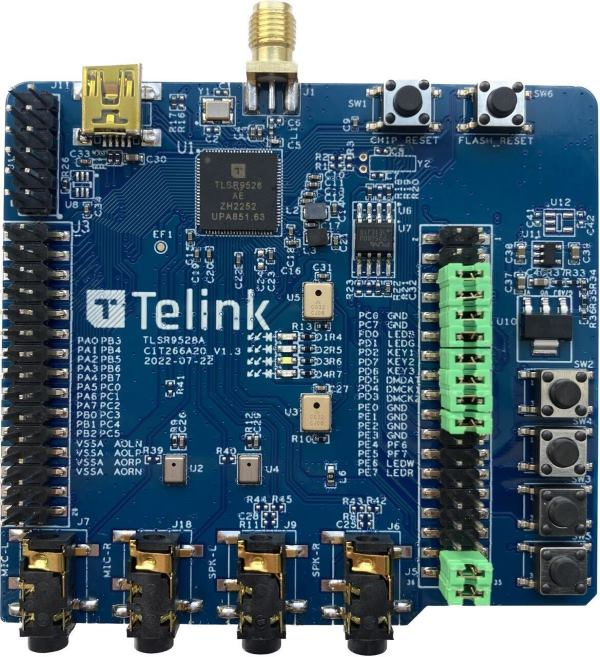
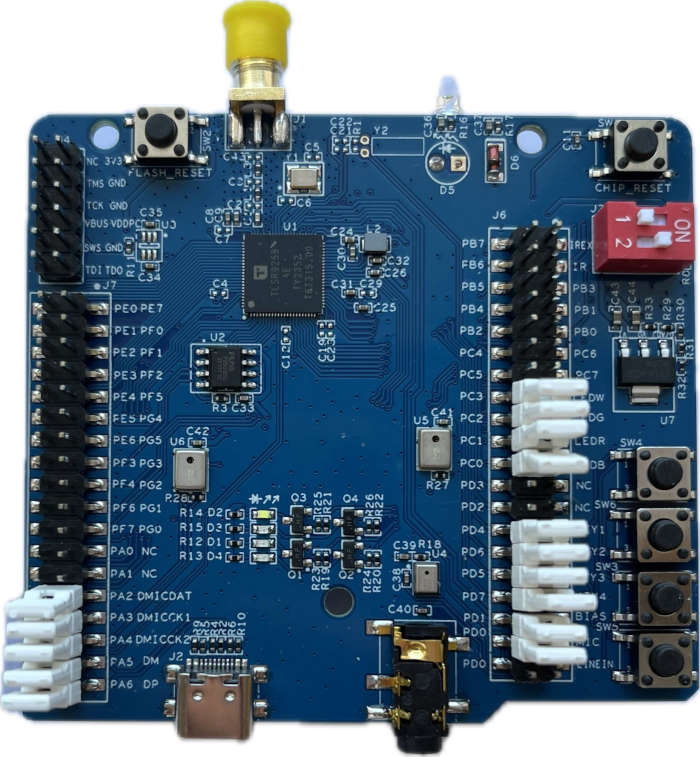
boards: riscv: tlsr9258a: Update b95 board docs
Update board image, block-diagram and board description.

diff --git a/boards/riscv/tlsr9258a/doc/index.rst b/boards/riscv/tlsr9258a/doc/index.rst
@@ -8,8 +8,7 @@ Overview
 
 The TLSR9258A Generic Starter Kit is a hardware platform which
 can be used to verify the `Telink TLSR9 series chipset`_ and develop applications
-for several 2.4 GHz air interface standards including Bluetooth 5.2 (Basic data
-rate, Enhanced data rate, LE, Indoor positioning and BLE Mesh),
+for several 2.4 GHz air interface standards including Bluetooth low energy,
 Zigbee 3.0, Homekit, 6LoWPAN, Thread and 2.4 Ghz proprietary.
 
 .. figure:: img/tlsr9258a.jpg
@@ -21,11 +20,12 @@ More information about the board can be found at the `Telink B95 Generic Starter
 Hardware
 ********
 
-The TLSR9258A SoC integrates a powerful 32-bit RISC-V MCU, DSP, 2.4 GHz ISM Radio, 512
-KB SRAM (256 KB of Data Local Memory and 256 KB of Instruction Local Memory first 96 KB of this memory
-supports retention feature), external Flash memory, stereo audio codec, 14 bit AUX ADC,
-analog and digital Microphone input, PWM, flexible IO interfaces, and other peripheral blocks required
-for advanced IoT, hearable, and wearable devices.
+TLSR9258A is a single chip SoC for Bluetooth low energy and 802.15.4. The embedded 2.4GHz transceiver
+supports Bluetooth low energy, 802.15.4 as well as 2.4GHz proprietary operation. The TLSR9258 integrates a
+powerful 32-bit RISC-V MCU, 512KB SRAM including at least 256KB retention SRAM, up to 4MB embedded
+and up to 16MB external flash, 12-bit ADC, PWM, flexible IO interfaces, and other peripheral blocks. The
+TLSR9258 supports standards and industrial alliance specifications including Bluetooth LE, Zigbee, Thread,
+Matter, 2.4GHz proprietary standard.
 
 .. figure:: img/tlsr9258a_block_diagram.jpg
      :align: center
@@ -36,12 +36,13 @@ The TLSR9258A default board configuration provides the following hardware compon
 - RF conducted antenna
 - 1 MB External SPI Flash memory with reset button. (Possible to mount 1/2/4 MB)
 - Chip reset button
-- Mini USB interface
+- USB type-C interface
 - 4-wire JTAG
-- 4 LEDs, Key matrix up to 4 keys
-- 2 line-in function (Dual Analog microphone supported when switching jumper from microphone path)
+- Key matrix up to 4 keys
+- 4 LEDs
+- 1 infra-red LED
+- 1 analogue microphone with line-in function (switching by a jumper in microphone path)
 - Dual Digital microphone
-- Stereo line-out
 
 Supported Features
 ==================
@@ -84,13 +85,9 @@ The Zephyr TLSR9258A board configuration supports the following hardware feature
 | PKE            | on-chip    | mbedtls                      |
 +----------------+------------+------------------------------+
 
-Board supports power-down modes: suspend and deep-sleep. For deep-sleep mode only 96KB of retention memory is available.
-Board supports HW cryptography acceleration (AES and ECC till 256 bits). MbedTLS interface is used as cryptography front-end.
-
-.. note::
-   To support "button" example project PD6-KEY3 (J5-13, J5-14) jumper needs to be removed and KEY3 (J5-13) should be connected to GND (J3-30) externally.
-
-   For the rest example projects use the default jumpers configuration.
+Board includes power management module: Embedded LDO and DCDC, Battery monitor for low battery voltage detection,
+Brownout detection/shutdown and Power-On-Reset, Deep sleep with external wakeup (without SRAM retention),
+Deep sleep with RTC and SRAM retention (32 KB SRAM retention).
 
 Limitations
 -----------
@@ -134,14 +131,13 @@ PINs Configuration
 The TLSR9258A SoC has five GPIO controllers (PORT_A to PORT_F), and the next are
 currently enabled:
 
-- LED0 (blue): PD0, LED1 (green): PD1, LED2 (white): PE6, LED3 (red): PE7
-- Key Matrix SW2: PD2_PD6, SW3: PD2_PF6, SW4: PD7_PD6, SW5: PD7_PF6
+- LED0 (blue): PC0, LED1 (green): PC2, LED2 (white): PC3, LED3 (red): PC1
+- Key Matrix SW3: PD4_PD5, SW4: PD4_PD7, SW5: PD6_PD5, SW6: PD6_PD7
 
 Peripheral's pins on the SoC are mapped to the following GPIO pins in the
 ``boards/riscv/tlsr9258a/tlsr9258a-common.dtsi`` file:
 
 - UART0 TX: PB2, RX: PB3
-- UART1 TX: PC6, RX: PC7
 - PWM Channel 0: PD0
 - LSPI CLK: PE1, MISO: PE3, MOSI: PE2
 - GSPI CLK: PA2, MISO: PA3, MOSI: PA4
@@ -150,7 +146,7 @@ Peripheral's pins on the SoC are mapped to the following GPIO pins in the
 Serial Port
 -----------
 
-The TLSR9258A SoC has 2 UARTs. The Zephyr console output is assigned to UART0.
+The Zephyr console output is assigned to UART0.
 The default settings are 115200 8N1.
 
 Programming and debugging
